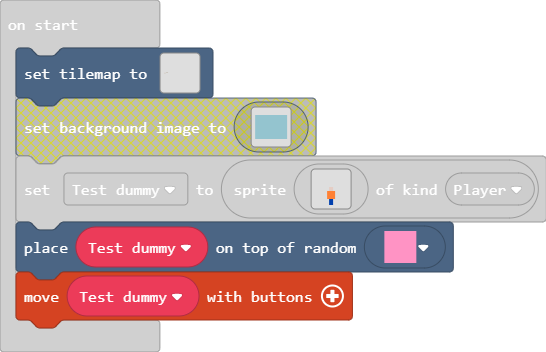
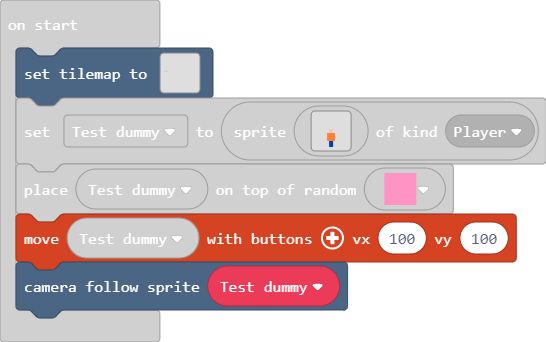
Update main.blocks, main.ts

diff --git a/main.ts b/main.ts
@@ -626,20 +626,20 @@ let mySprite3: Sprite = null
 let mySprite2: Sprite = null
 let Test_dummy: Sprite = null
 tiles.setTilemap(tiles.createTilemap(
-            hex`78001000000000000000000000000000000000000000000000000000000000000000000000000000000000000000000000000000000000000000000000000000000000000000000000000000000000000000000000000000000000000000000000000000000000000000000000000000000000000000000000000000000000000000000000000000000000000000000000000000000000000000000000000000000000000000000000000000000000000000000000000000000000000000000000000000000000000000000000000000000000000000000000000000000000000000000000000000000000000000000000000000000000000000000000000000000000000000000000000000000000000000000000000000000000000000000000000000000000000000000000000000000000000000000000000000000000000000000000000000000000000000000000000000000000000000000000000000000000000000000000000000000000000000000000000000000000000000000000000000000000000000000000000000000000000000000000000000000000000000000000000000000000000000000000000000000000000000000000000000000000000000000000000000000000000000000000000000000000000000000000000000000000000000000000000000000000000000000000000000000000000000000000000000000000000000000000000000000000000000000000000000000000000000000000000000000000000000000000000000000000000000000000000000000000000000000000000000000000000000000000000000000000000000000000000000000000000000000000000000000000000000000000000000000000000000000000000000000000000000000000000000000000000000000000000000000000000000000000000000000000000000000000000000000000000000000000000000000000000000000000000000000000000000000000000000000000000000000000000000000000000000000000000000000000000000000000000000000000000000000000000000000000000000000000000000000000000000000000000000000000000000000000000000000000000000000000000000000000000000000000000000000000000000000000000000000000000000000000000000000000000000000000000000000000000000000000000000000000000000000000000000000000000000000000000000000000000000000000000000000000000000000000000000000000000000000000000000000000000000000000000000000200000000000000000101010000000000000000000000000000000000000000000000000000000000000000000000000000000000000000000000000000000000000000000000000000000000000000000000000000000000000000000000000000000000000000000000000000000000000000000000000000000000000000000000000000000000000000000000000000000000000000000000000000000000000000000000000000000000000000000000000000000000000000000000000000000000000000000000000000000000000000000000000000000000000000000000000000000000000000000000000000000000000101010101010101000000000000000000000000000000000000000000000000000000000000000000000000000000000000000000000000000000000000000000000000000000000000000000000000000000000000000000000000000000000000000000000000000000000000000000010101010101010000000000000000000000000000000000000000000000000000000000000000000000000000000000000000000000000000000000000000000000000000000000000000000000000000000000000000000000000000000000000000000000000000000000000000000000000000000000000000000000000000000000000000000000000000000000000000000000000000000000000000000000000000000000000000000000000000000000000000000000000000000000000000000000000000000000000000000000000000000000000000000000000000000000000000000000000000000000000000000000000000000000000000000000000000000000000000000000000000000000000000000000000000000000000000000000000000000000000000000000000000000000000000000000000000000000000000000000000000000000000000000000000000000000000000000000000000000000000000000000000000000000000000000000000000000000000000000000000000000000000000000000000000000000000000000000000000000000000000000000000000000000000000000000000000000000000000000000000000000000000000000000000000000000000000000000000000000000000000000000000000000000000000000000000000000000000000000000000000000000000000000000000000000000000000000000000000000000000000000000000000000000000000000000000000000000000000000000000000000000000000000000000000000000000000000000000000000000`,
+            hex`78001000000000000000000000000000000000000000000000000000000000000000000000000000000000000000000000000000000000000000000000000000000000000000000000000000000000000000000000000000000000000000000000000000000000000000000000000000000000000000000000000000000000000000000101010000000000000000000000000000000000000000000000000000000000000000000000000000000000000000000000000000000000000000000000000000000000000000000000000000000000000000000000000000000000000000000000000000000000000000000000000000000000000000000000000101010000000000000000000000000000000000000000000000000000000000000000000000000000000000000000000000000000000000000000000000000000000000000000000000000000000000000000000000000000000000000000000000000000000000000000000000000200000000000000000000000000000000000000000000000000000000000000000000000000000000000000000000000000000000000000000000000000000000000000000000000000000000000000000000000000000000000000000000000000000000000000000000000000000000000000000000000000000000000101010101010101000000000000000000000000000000000000000000000000000000000000000000000000000000000000000000000000000000000000000000000000000000000000000000000000000000000000000000000000000000000000000000000000000000000000000000010101010101010000000000000000000000000000000000000000000000000000000000000000000000000000000000000000000000000000000000000000000000000000000000000000000000000000000000000000000000000000000000000000000000000000000000000000000000000000000000000000000000000000000000000000000000000000000000000000000000000000000000000000000000000000000000000000000000000000000000000000000000000000000000000000000000000000000000000000000000000000000000000000000000000000000000000000000000000000000000000000000000000000000000000000000000000000000000000000000000000000000000000000000000000000000000000000000000000000000000000000000000000000000000000000000000000000000000000000000000000000000000000000000000000000000000000000000000000000000000000000000000000000000000000000000000000000000000000000000000000000000000000000000000000000000000000000000000000000000000000000000000000000000000000000000000000000000000000000000000000000000000000000000000000000000000000000000000000000000000000000000000000000000000000000000000000000000000000000000000000000000000000000000000000000000000000000000000000000000000000000000000000000000000000000000000000000000000000000000000000000000000000000000000000000000000000000000000000000000000000000000000000000000000000000000000000000000000000000000000000000000000000000000000000000000000000000000000000000000000000000000000000000000000000000000000000000000000000000000000000000000000000000000000000000000000000000000000000000000000000000000000000000000000000000000000000000000000000000000000000000000000000000000000000000000000000000000000000000000000000000000000000000000000000000000000000000000000000000000000000000000000000000000000000000000000000000000000000000000000000000000000000000000000000000000000000000000000000000000000000000000000000000000000000000000000000000000000000000000000000000000000000000000000000000000000000000000000000000000000000000000000000000000000000000000000000000000000000000000000000000000000000000000000000000000000000000000000000000000000000000000000000000000000000000000000000000000000000000000000000000000000000000000000000000000000000000000000000000000000000000000000000000000000000000000000000000000000000000000000000000000000000000000000000000000000000000000000000000000000000000000000000000000000000000000000000000000000000000000000000000000000000000000000000000000000000000000000000000000000000000000000000000000000000000000000000000000000000000000000000000000000000000000000000000000000000000000000000000000000000000000000000000000000000000000000000000000000000000000000000000000000000000000000000000000000000000000000000000000000000000000000000000000000000000000000000000000000000000000000`,
             img`
 . . . . . . . . . . . . . . . . . . . . . . . . . . . . . . . . . . . . . . . . . . . . . . . . . . . . . . . . . . . . . . . . . . . . . . . . . . . . . . . . . . . . . . . . . . . . . . . . . . . . . . . . . . . . . . . . . . . . . . . . 
-. . . . . . . . . . . . . . . . . . . . . . . . . . . . . . . . . . . . . . . . . . . . . . . . . . . . . . . . . . . . . . . . . . . . . . . . . . . . . . . . . . . . . . . . . . . . . . . . . . . . . . . . . . . . . . . . . . . . . . . . 
-. . . . . . . . . . . . . . . . . . . . . . . . . . . . . . . . . . . . . . . . . . . . . . . . . . . . . . . . . . . . . . . . . . . . . . . . . . . . . . . . . . . . . . . . . . . . . . . . . . . . . . . . . . . . . . . . . . . . . . . . 
-. . . . . . . . . . . . . . . . . . . . . . . . . . . . . . . . . . . . . . . . . . . . . . . . . . . . . . . . . . . . . . . . . . . . . . . . . . . . . . . . . . . . . . . . . . . . . . . . . . . . . . . . . . . . . . . . . . . . . . . . 
-. . . . . . . . . . . . . . . . . . . . . . . . . . . . . . . . . . . . . . . . . . . . . . . . . . . . . . . . . . . . . . . . . . . . . . . . . . . . . . . . . . . . . . . . . . . . . . . . . . . . . . . . . . . . . . . . . . . . . . . . 
-. . . . . . . . . . . . . . . . . . . . . . . . . . . . . . . . . . . . . . . . . . . . . . . . . . . . . . . . . . . . . . . . . . . . . . . . . . . . . . . . . . . . . . . . . . . . . . . . . . . . . . . . . . . . . . . . . . . . . . . . 
-. . . . . . . . . . . . . . . . . . . . . . . . . . . . . . . . . . . . . . . . . . . . . . . . . . . . . . . . . . . . . . . . . . . . . . . . . . . . . . . . . . . . . . . . . . . . . . . . . . . . . . . . . . . . . . . . . . . . . . . . 
-. . . . . . . . . . . . . . . . . . . . . . . . . . . . . . . . . . . . . . . . . . . . . . . . . . . . . . . . . . . . . . . . . . . . . . . . . . . . . . . . . . . . . . . . . . . . . . . . . . . . . . . . . . . . . . . . . . . . . . . . 
+. . . . . . . . 2 2 2 . . . . . . . . . . . . . . . . . . . . . . . . . . . . . . . . . . . . . . . . . . . . . . . . . . . . . . . . . . . . . . . . . . . . . . . . . . . . . . . . . . . . . . . . . . . . . . . . . . . . . . . . . . . . . 
 . . . . . . . . . . 2 2 2 . . . . . . . . . . . . . . . . . . . . . . . . . . . . . . . . . . . . . . . . . . . . . . . . . . . . . . . . . . . . . . . . . . . . . . . . . . . . . . . . . . . . . . . . . . . . . . . . . . . . . . . . . . . 
 . . . . . . . . . . . . . . . . . . . . . . . . . . . . . . . . . . . . . . . . . . . . . . . . . . . . . . . . . . . . . . . . . . . . . . . . . . . . . . . . . . . . . . . . . . . . . . . . . . . . . . . . . . . . . . . . . . . . . . . . 
 . . . . . . . 2 2 2 2 2 2 2 2 . . . . . . . . . . . . . . . . . . . . . . . . . . . . . . . . . . . . . . . . . . . . . . . . . . . . . . . . . . . . . . . . . . . . . . . . . . . . . . . . . . . . . . . . . . . . . . . . . . . . . . . . . 
 2 2 2 2 2 2 2 . . . . . . . . . . . . . . . . . . . . . . . . . . . . . . . . . . . . . . . . . . . . . . . . . . . . . . . . . . . . . . . . . . . . . . . . . . . . . . . . . . . . . . . . . . . . . . . . . . . . . . . . . . . . . . . . . 
+. . . . . . . . . . . . . . . . . . . . . . . . . . . . . . . . . . . . . . . . . . . . . . . . . . . . . . . . . . . . . . . . . . . . . . . . . . . . . . . . . . . . . . . . . . . . . . . . . . . . . . . . . . . . . . . . . . . . . . . . 
+. . . . . . . . . . . . . . . . . . . . . . . . . . . . . . . . . . . . . . . . . . . . . . . . . . . . . . . . . . . . . . . . . . . . . . . . . . . . . . . . . . . . . . . . . . . . . . . . . . . . . . . . . . . . . . . . . . . . . . . . 
+. . . . . . . . . . . . . . . . . . . . . . . . . . . . . . . . . . . . . . . . . . . . . . . . . . . . . . . . . . . . . . . . . . . . . . . . . . . . . . . . . . . . . . . . . . . . . . . . . . . . . . . . . . . . . . . . . . . . . . . . 
+. . . . . . . . . . . . . . . . . . . . . . . . . . . . . . . . . . . . . . . . . . . . . . . . . . . . . . . . . . . . . . . . . . . . . . . . . . . . . . . . . . . . . . . . . . . . . . . . . . . . . . . . . . . . . . . . . . . . . . . . 
+. . . . . . . . . . . . . . . . . . . . . . . . . . . . . . . . . . . . . . . . . . . . . . . . . . . . . . . . . . . . . . . . . . . . . . . . . . . . . . . . . . . . . . . . . . . . . . . . . . . . . . . . . . . . . . . . . . . . . . . . 
+. . . . . . . . . . . . . . . . . . . . . . . . . . . . . . . . . . . . . . . . . . . . . . . . . . . . . . . . . . . . . . . . . . . . . . . . . . . . . . . . . . . . . . . . . . . . . . . . . . . . . . . . . . . . . . . . . . . . . . . . 
 . . . . . . . . . . . . . . . . . . . . . . . . . . . . . . . . . . . . . . . . . . . . . . . . . . . . . . . . . . . . . . . . . . . . . . . . . . . . . . . . . . . . . . . . . . . . . . . . . . . . . . . . . . . . . . . . . . . . . . . . 
 . . . . . . . . . . . . . . . . . . . . . . . . . . . . . . . . . . . . . . . . . . . . . . . . . . . . . . . . . . . . . . . . . . . . . . . . . . . . . . . . . . . . . . . . . . . . . . . . . . . . . . . . . . . . . . . . . . . . . . . . 
 . . . . . . . . . . . . . . . . . . . . . . . . . . . . . . . . . . . . . . . . . . . . . . . . . . . . . . . . . . . . . . . . . . . . . . . . . . . . . . . . . . . . . . . . . . . . . . . . . . . . . . . . . . . . . . . . . . . . . . . . 
@@ -667,4 +667,5 @@ Test_dummy = sprites.create(img`
 . . . . . . . 8 8 . . . . . . . 
 `, SpriteKind.Player)
 tiles.placeOnRandomTile(Test_dummy, myTiles.tile2)
-controller.moveSprite(Test_dummy)
+controller.moveSprite(Test_dummy, 100, 100)
+scene.cameraFollowSprite(Test_dummy)
